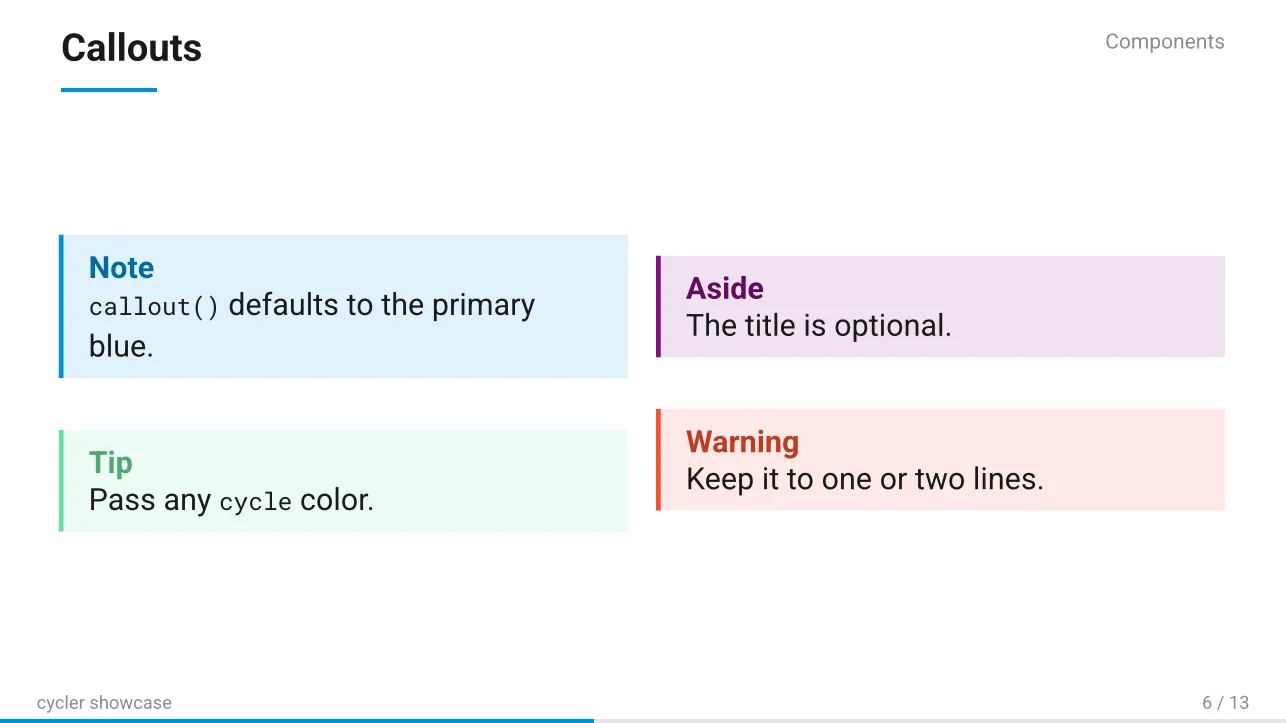
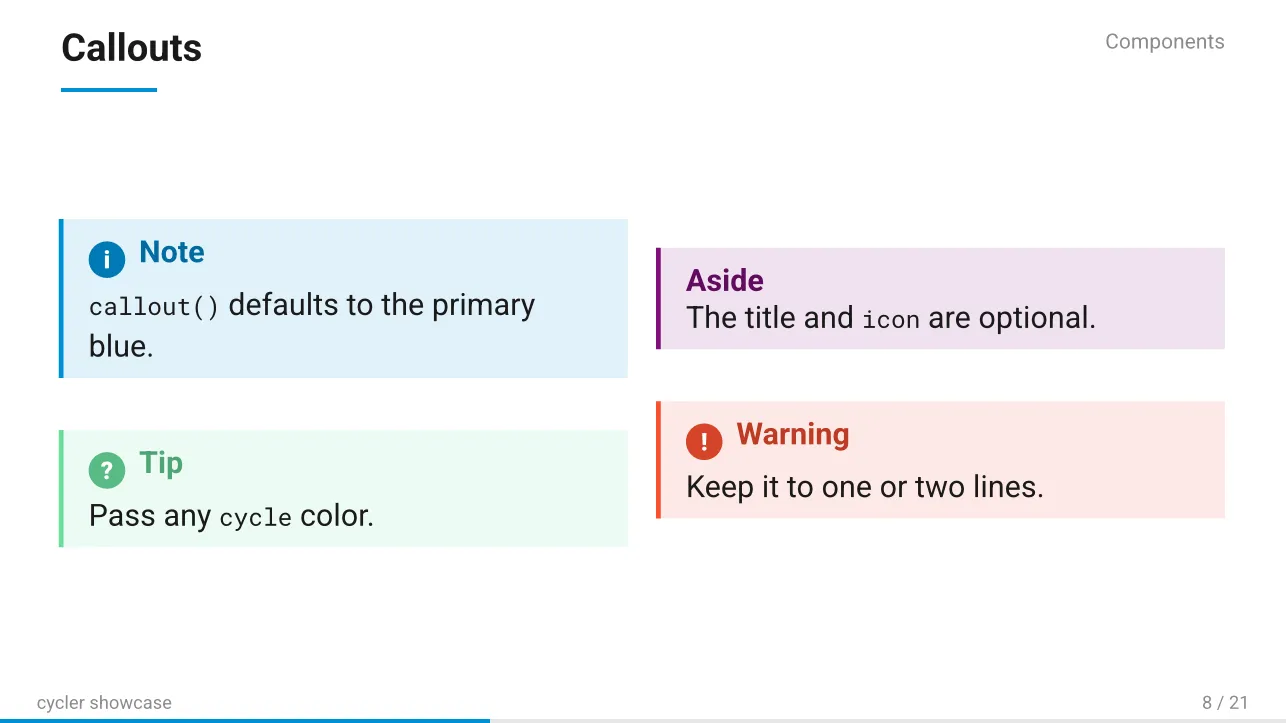
Expand the showcase
- Logo and placeholder author on the title slide, an outline, and four sections
- Typography and quotes, full-bleed photo, code next to its output
- Varied table alignment, callout icons, "Get the template" closer

diff --git a/.github/README.md b/.github/README.md
@@ -73,10 +73,11 @@ use Copier above. `just agent-skills` restores the submodules in either case.
 - Content, with *highlights* in the primary blue
 ```
 
-- Slides: `title-slide`, `slide`, `focus-slide`, and a numbered section slide per `=` heading. Section numbers step
-  through the cycle.
+- Slides: `title-slide` (with an optional `logo`), `slide`, `focus-slide`, `image-slide` for a full-bleed photo, and a
+  numbered section slide per `=` heading. Section numbers step through the cycle.
 - Helpers: `cycle` (the six colors by name), `cycle-color(n)`, `stripe()` for the full palette, and
-  `callout(color:, title:)[..]`.
+  `callout(color:, title:, icon:)[..]`, where `icon: "!"` draws a round badge without an icon font. `===` headings and
+  `#quote(block: true)` are styled too.
 - Theme options: `font`, `mono-font`, `math-font`, `footer`, `footer-right`, `header-right`, `progress-bar`,
   `bibliography`.
 - Citations: pass `bibliography: bibliography(title: none, "refs.bib")` and cite with `@key`. Each citation becomes a
@@ -108,9 +109,10 @@ since jj doesn't track submodules.
 
 ## Showcase deck
 
-`example/showcase.typ` walks through everything the theme does: text and reveals, columns, callouts, the color cycle, a
-cetz plot, a matplotlib figure and a Mermaid diagram in the cycle colors, tables, code, math, citations as footnotes,
-and QR codes. In this repo, `just build` builds it, since there's no `main.typ` here.
+`example/showcase.typ` walks through everything the theme does: an outline, text, typography and quotes, reveals,
+columns, callouts, the color cycle, a cetz plot, a matplotlib figure and a Mermaid diagram in the cycle colors, a
+full-bleed photo, tables, code next to its output, math, citations as footnotes, speaker notes, and QR codes. In this
+repo, `just build` builds it, since there's no `main.typ` here.
 
 ![Two columns](../example/images/columns.webp) ![Callouts](../example/images/callouts.webp)
 ![The color cycle](../example/images/colors.webp) ![A cetz plot in the cycle colors](../example/images/plot.webp)
